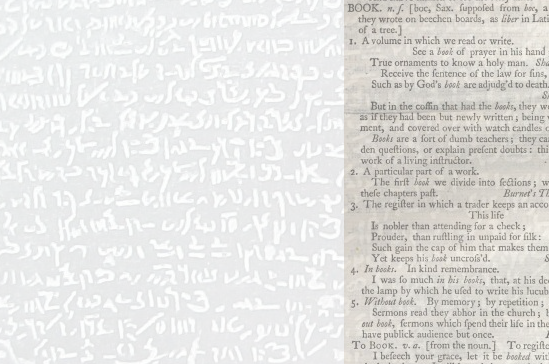
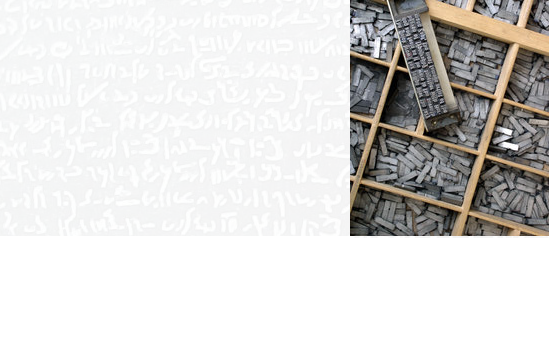
- changed the background again  - changed the preferences tooltips  - there are three buttons at the start now
--HG--
branch : Inform
extra : convert_revision : svn%3Af2cc7feb-2fdc-0310-9003-87a4627787f1/trunk/Inform%401925

diff --git a/Preferences/IFPreferencePane.h b/Preferences/IFPreferencePane.h
@@ -22,6 +22,7 @@
 - (NSImage*)  toolbarImage;							// The image that should show up in the toolbar
 - (NSString*) preferenceName;						// The name of this pane (appears until the toolbar item)
 - (NSString*) identifier;							// The unique identifier for this pane (subclasses don't need to override this)
+- (NSString*) tooltip;								// The tooltip for this preference
 - (NSView*)   preferenceView;						// The view that describes the UI for this preference pane
 
 @end

diff --git a/Preferences/IFInspectorPreferences.m b/Preferences/IFInspectorPreferences.m
@@ -59,6 +59,12 @@
 	return [NSImage imageNamed: @"Inspectors"];
 }
 
+- (NSString*) tooltip {
+	return [[NSBundle mainBundle] localizedStringForKey: @"Inspector preferences tooltip"
+												  value: @"Inspector preferences tooltip"
+												  table: nil];
+}
+
 // = Reflecting the current preference values =
 
 - (void) reflectCurrentPreferences {

diff --git a/Preferences/IFStylePreferences.m b/Preferences/IFStylePreferences.m
@@ -49,6 +49,12 @@
 	return [NSImage imageNamed: @"Styles"];
 }
 
+- (NSString*) tooltip {
+	return [[NSBundle mainBundle] localizedStringForKey: @"Style preferences tooltip"
+												  value: @"Style preferences tooltip"
+												  table: nil];
+}
+
 // = Receiving data from/updating the interface =
 
 - (IBAction) styleSetHasChanged: (id) sender {

diff --git a/Preferences/IFExtensionPreferences.m b/Preferences/IFExtensionPreferences.m
@@ -61,6 +61,12 @@
 	return [NSImage imageNamed: @"Extensions"];
 }
 
+- (NSString*) tooltip {
+	return [[NSBundle mainBundle] localizedStringForKey: @"Extensions preferences tooltip"
+												  value: @"Extensions preferences tooltip"
+												  table: nil];
+}
+
 // = Actions =
 
 - (IBAction) addNaturalExtension: (id) sender {

diff --git a/Preferences/IFAdvancedPreferences.m b/Preferences/IFAdvancedPreferences.m
@@ -38,6 +38,12 @@
 	return [NSImage imageNamed: @"Advanced"];
 }
 
+- (NSString*) tooltip {
+	return [[NSBundle mainBundle] localizedStringForKey: @"Advanced preferences tooltip"
+												  value: @"Advanced preferences tooltip"
+												  table: nil];
+}
+
 // = Actions =
 
 - (IBAction) setPreference: (id) sender {

diff --git a/Preferences/IFIntelligencePreferences.m b/Preferences/IFIntelligencePreferences.m
@@ -85,4 +85,10 @@
 	return [NSImage imageNamed: @"Intelligence"];
 }
 
+- (NSString*) tooltip {
+	return [[NSBundle mainBundle] localizedStringForKey: @"Intelligence preferences tooltip"
+												  value: @"Intelligence preferences tooltip"
+												  table: nil];
+}
+
 @end

diff --git a/Preferences/IFPreferenceController.m b/Preferences/IFPreferenceController.m
@@ -90,6 +90,7 @@
 	[newItem setTarget: self];
 	[newItem setImage: [newPane toolbarImage]];
 	[newItem setLabel: [newPane preferenceName]];
+	[newItem setToolTip: [newPane tooltip]];
 	
 	[toolbarItems setObject: newItem
 					 forKey: [newPane identifier]];

diff --git a/Preferences/IFPreferencePane.m b/Preferences/IFPreferencePane.m
@@ -48,4 +48,8 @@
 	return preferenceView;
 }
 
+- (NSString*) tooltip {
+	return nil;
+}
+
 @end
